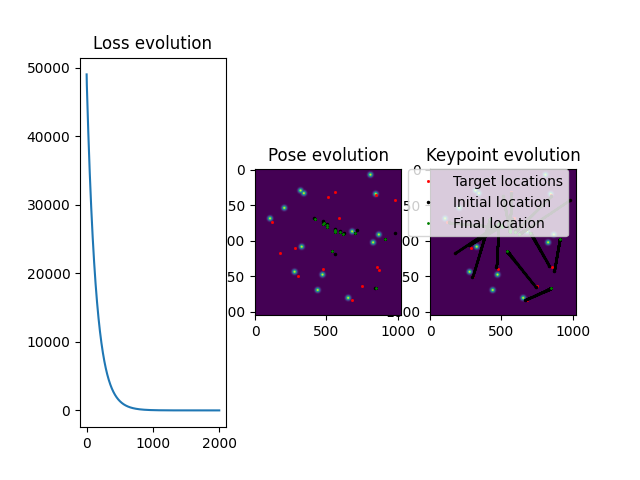
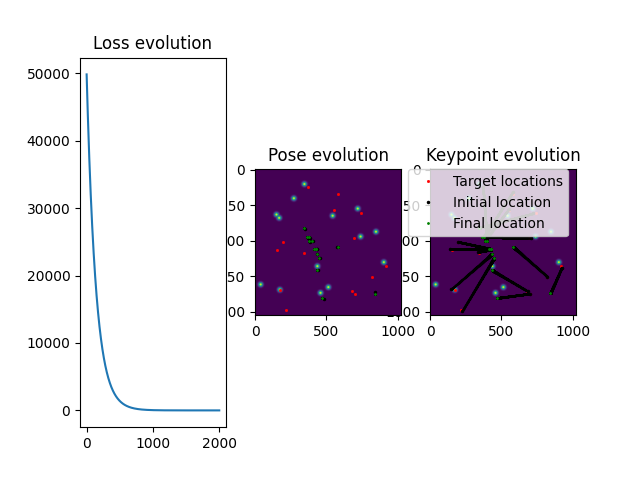
feature-metric BPnP result

diff --git a/demoPoseEst_features.py b/demoPoseEst_features.py
@@ -13,7 +13,7 @@ import cv2
 device = 'cuda'
 
 data = pickle.load(open('demo_data/toyexample_6_data.p', 'rb'))
-img = torch.tensor(np.moveaxis(cv2.imread('demo_data/toyexample_6.png', cv2.IMREAD_GRAYSCALE), 0, 1), device = device, dtype = torch.float)[None, None, ...]
+img = torch.tensor(cv2.imread('demo_data/toyexample_6.png', cv2.IMREAD_GRAYSCALE), device = device, dtype = torch.float)[None, None, ...]
 
 pts3d_gt = torch.tensor(data['3d_points'], device=device, dtype=torch.float)
 n = pts3d_gt.size(0)
@@ -47,16 +47,16 @@ losses = []
 track_2d = np.empty([ite,n,2])
 track_2d_pro = np.empty([ite,n,2])
 
-features_gt = F.grid_sample(img, pts2d_gt[None, ...])
+features_gt = F.grid_sample(img, torch.flip(pts2d_gt,(1,))[None, ...])
 
 plt.figure()
 ax3 = plt.subplot(1, 3, 3)
 plt.imshow(img[0][0].detach().cpu().numpy())
-plt.plot(pts2d_gt[0,:,0].clone().detach().cpu().numpy(), pts2d_gt[0,:,1].clone().detach().cpu().numpy(),'rs',ms=1, label = 'Target locations')
+plt.plot(pts2d_gt[0,:,1].clone().detach().cpu().numpy(), pts2d_gt[0,:,0].clone().detach().cpu().numpy(),'rs',ms=1, label = 'Target locations')
 plt.title('Keypoint evolution')
 ax2 = plt.subplot(1, 3, 2)
 plt.imshow(img[0][0].detach().cpu().numpy())
-ax2.plot(pts2d_gt[0,:,0].clone().detach().cpu().numpy(), pts2d_gt[0,:,1].clone().detach().cpu().numpy(),'rs',ms=1, label = 'Target locations')
+ax2.plot(pts2d_gt[0,:,1].clone().detach().cpu().numpy(), pts2d_gt[0,:,0].clone().detach().cpu().numpy(),'rs',ms=1, label = 'Target locations')
 plt.title('Pose evolution')
 
 for i in range(ite):
@@ -65,7 +65,7 @@ for i in range(ite):
     track_2d[i, :, :] = pts2d.clone().cpu().detach().numpy()
     P_out = bpnp(pts2d, pts3d_gt, K, ini_pose)
     pts2d_pro = BPnP.batch_project(P_out, pts3d_gt, K)
-    features_pro = F.grid_sample(img, pts2d_pro[None, ...])
+    features_pro = F.grid_sample(img, torch.flip(pts2d_pro,(1,))[None, ...])
     # loss = ((pts2d_pro - pts2d_gt)**2).mean() + ((pts2d_pro - pts2d)**2).mean()
     loss = ((features_pro - features_gt)**2).mean() + ((pts2d_pro - pts2d)**2).mean()
 
@@ -83,14 +83,14 @@ for i in range(ite):
     ini_pose = P_out.detach()
 
     if i==0:
-        ax3.plot(pts2d[0,:, 0].clone().detach().cpu().numpy(), pts2d[0,:, 1].clone().detach().cpu().numpy(), 'ko', ms=1.5, label='Initial location')
-        ax2.plot(pts2d_pro[0,:, 0].clone().detach().cpu().numpy(), pts2d_pro[0,:, 1].clone().detach().cpu().numpy(), 'ko', ms=1.5, label='Initial location')
+        ax3.plot(pts2d[0,:, 1].clone().detach().cpu().numpy(), pts2d[0,:, 0].clone().detach().cpu().numpy(), 'ko', ms=1.5, label='Initial location')
+        ax2.plot(pts2d_pro[0,:, 1].clone().detach().cpu().numpy(), pts2d_pro[0,:, 0].clone().detach().cpu().numpy(), 'ko', ms=1.5, label='Initial location')
     else:
-        ax3.plot(pts2d[0,:, 0].clone().detach().cpu().numpy(), pts2d[0,:, 1].clone().detach().cpu().numpy(), 'k.', ms=0.5)
-        ax2.plot(pts2d_pro[0,:, 0].clone().detach().cpu().numpy(), pts2d_pro[0,:, 1].clone().detach().cpu().numpy(), 'k.', ms=0.5)
+        ax3.plot(pts2d[0,:, 1].clone().detach().cpu().numpy(), pts2d[0,:, 0].clone().detach().cpu().numpy(), 'k.', ms=0.5)
+        ax2.plot(pts2d_pro[0,:, 1].clone().detach().cpu().numpy(), pts2d_pro[0,:, 0].clone().detach().cpu().numpy(), 'k.', ms=0.5)
 
-ax3.plot(pts2d[0,:, 0].clone().detach().cpu().numpy(), pts2d[0,:, 1].clone().detach().cpu().numpy(), 'go', ms = 1, label = 'Final location')
-ax2.plot(pts2d_pro[0,:, 0].clone().detach().cpu().numpy(), pts2d_pro[0,:, 1].clone().detach().cpu().numpy(), 'go', ms = 1, label = 'Final location')
+ax3.plot(pts2d[0,:, 1].clone().detach().cpu().numpy(), pts2d[0,:, 0].clone().detach().cpu().numpy(), 'go', ms = 1, label = 'Final location')
+ax2.plot(pts2d_pro[0,:, 1].clone().detach().cpu().numpy(), pts2d_pro[0,:, 0].clone().detach().cpu().numpy(), 'go', ms = 1, label = 'Final location')
 plt.legend(bbox_to_anchor=(1.05, 1), loc=2, borderaxespad=0.)
 
 plt.subplot(1,3,1)
